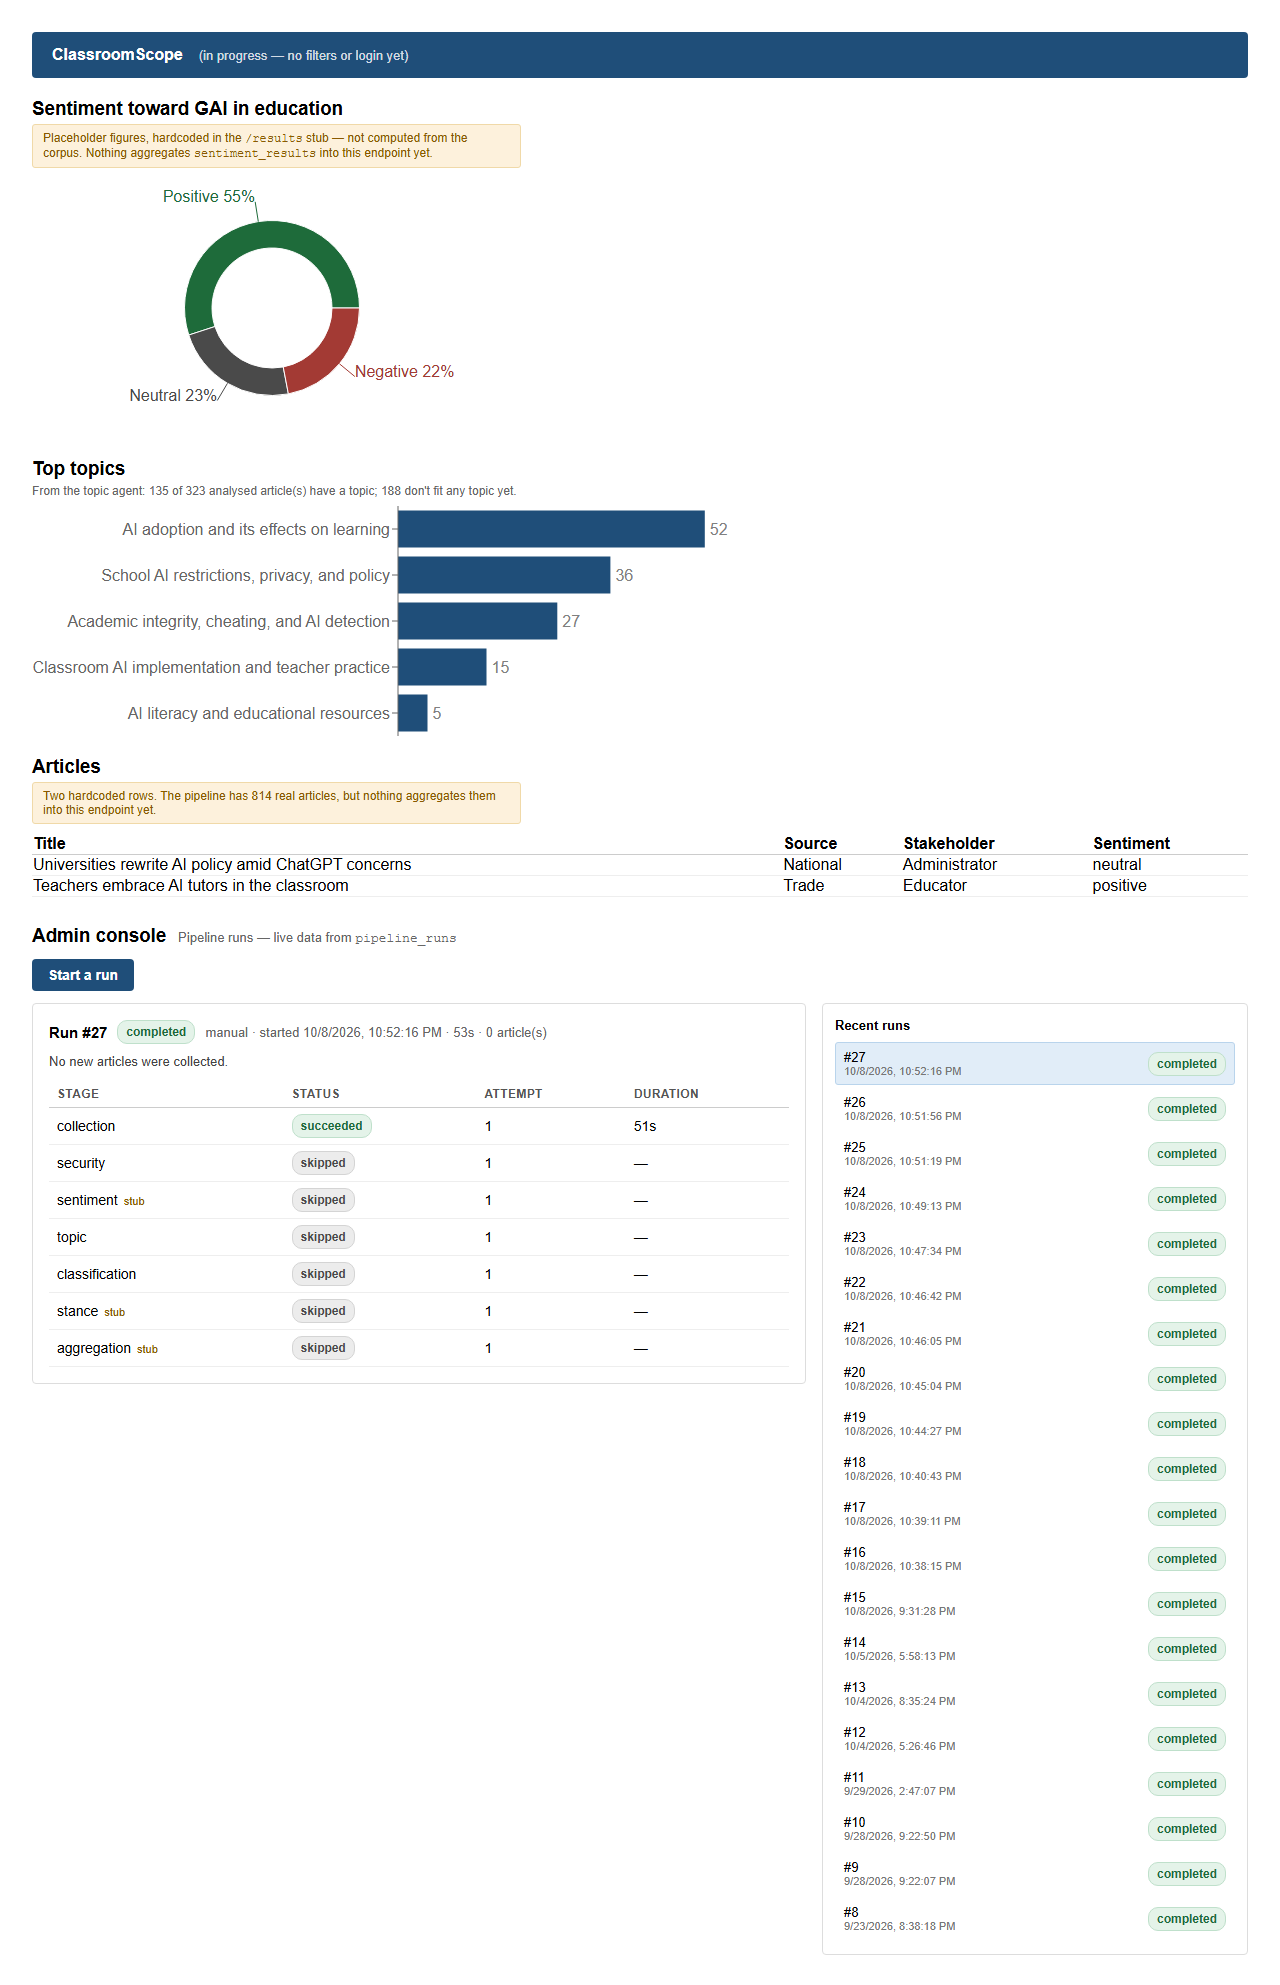
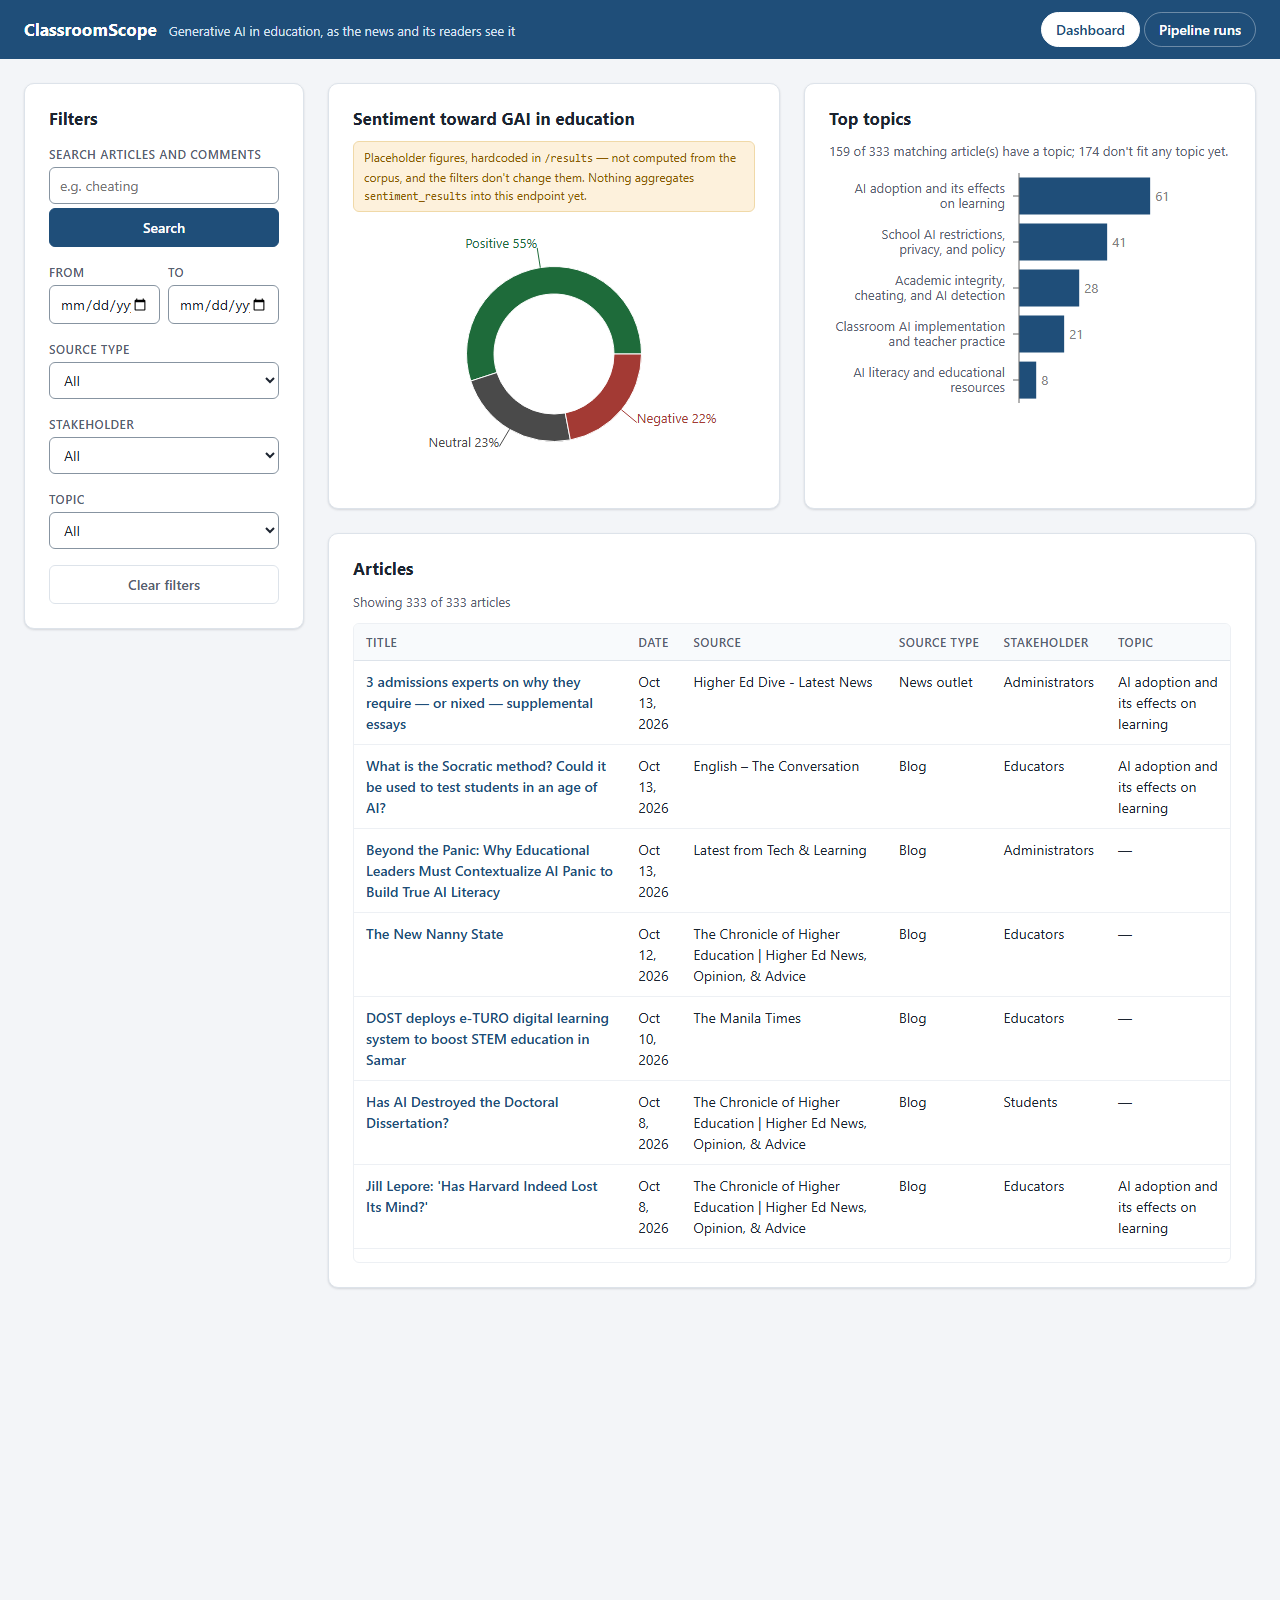
Update the end-to-end checks for the redesigned dashboard
D1 failed against the redesign: the topic line, axis labels and the Pipeline runs tab changed. D1-D3 and R1 are rewritten and pass against the real backend. R1 and D1 now count topics per article, as the corpus does, since counting rows disagreed with the API by the articles with no topic row. D2 and D3 fail at once on a run that does not complete, and D3 waits for the console to load before clicking. The report has a section on the rerun and new screenshots.

diff --git a/backend/e2e/test_3_dashboard.py b/backend/e2e/test_3_dashboard.py
@@ -8,21 +8,36 @@ from e2e.browser import CLIPPED_LABELS, screenshot, watch_console
 from e2e.settings import PAGE_TIMEOUT, RUN_TIMEOUT
 
 
+def squash(text: str) -> str:
+    """Axis labels wrap onto two lines with no space between them in the text; compare without spaces."""
+    return re.sub(r"\s+", "", text)
+
+
+def open_pipeline_runs(page):
+    page.get_by_role("navigation", name="Views").get_by_role("button", name="Pipeline runs").click()
+
+
 def test_d1_dashboard_shows_real_topics_and_marks_placeholders(
         page, frontend, environment, results_dir, record_property):
     problems = watch_console(page)
     page.goto(frontend.url, timeout=PAGE_TIMEOUT)
-    expect(page.get_by_text("From the topic agent:")).to_be_visible(timeout=PAGE_TIMEOUT)
     expected = database.topic_facet(environment.client)
+    counted, unassigned = expected["counted"], expected["unassigned"]
+    total = counted + unassigned
+    expect(page.get_by_text(f"{counted} of {total} matching article(s) have a topic; "
+                            f"{unassigned} don't fit any topic yet.")).to_be_visible(timeout=PAGE_TIMEOUT)
 
     expect(page.locator("svg.recharts-surface")).to_have_count(2)
-    assert (page.locator(".recharts-yAxis-tick-labels text").all_text_contents()
-            == [item["label"] for item in expected["items"]])
+    labels = page.locator(".recharts-yAxis-tick-labels text")
+    expect(labels).to_have_count(len(expected["items"]))
+    assert ([squash(text) for text in labels.all_text_contents()]
+            == [squash(item["label"]) for item in expected["items"]])
     assert (page.locator(".recharts-label-list text").all_text_contents()
             == [str(item["count"]) for item in expected["items"]])
     assert page.evaluate(CLIPPED_LABELS) == []
     expect(page.get_by_text("Placeholder figures, hardcoded")).to_be_visible()
-    expect(page.get_by_text("Two hardcoded rows.")).to_be_visible()
+    expect(page.get_by_text(f"Showing {total} of {total} articles")).to_be_visible()
+    expect(page.locator("table.data-table tbody tr")).to_have_count(total)
     screenshot(page, results_dir, "D1-dashboard.png", record_property)
     assert problems == []
 
@@ -30,26 +45,33 @@ def test_d1_dashboard_shows_real_topics_and_marks_placeholders(
 def test_d2_admin_console_lists_the_api_run(page, frontend, api_run):
     run_id = api_run.first.json()["id"]
     page.goto(frontend.url, timeout=PAGE_TIMEOUT)
+    open_pipeline_runs(page)
     entry = page.get_by_role("button", name=re.compile(rf"^#{run_id}\b"))
-    expect(entry).to_contain_text("completed", timeout=PAGE_TIMEOUT)
+    expect(entry.locator(".badge")).to_have_text("completed", timeout=PAGE_TIMEOUT)
 
 
 def test_d3_start_a_run_from_the_dashboard(page, frontend, api_run, results_dir, record_property):
     problems = watch_console(page)
     page.goto(frontend.url, timeout=PAGE_TIMEOUT)
+    open_pipeline_runs(page)
+    title = page.locator(".run-title")
+    # The console selects the newest run as it loads; clicking before that
+    # lets the late selection replace the run this test starts.
+    expect(title).to_be_visible(timeout=PAGE_TIMEOUT)
     button = page.get_by_role("button", name=re.compile("^(Start a run|Starting…|Run in progress…)$"))
     expect(button).to_have_text("Start a run", timeout=PAGE_TIMEOUT)
 
     button.click()
     expect(button).to_be_disabled(timeout=PAGE_TIMEOUT)
-    title = page.locator("strong", has_text=re.compile(r"^Run #\d+$"))
     expect(title).not_to_have_text(f"Run #{api_run.first.json()['id']}", timeout=PAGE_TIMEOUT)
     status = title.locator("xpath=following-sibling::span[1]")
     expect(status).to_have_text("running", timeout=PAGE_TIMEOUT)
     screenshot(page, results_dir, "D3-running.png", record_property)
 
-    expect(status).to_have_text("completed", timeout=RUN_TIMEOUT * 1000)
-    statuses = page.locator("table").filter(has_text="Attempt").locator("tbody tr td:nth-child(2)")
+    # Any final state ends the wait; only "completed" passes.
+    expect(status).to_have_text(re.compile("^(completed|completed with errors|failed)$"), timeout=RUN_TIMEOUT * 1000)
+    expect(status).to_have_text("completed")
+    statuses = page.locator("table.data-table tbody tr td:nth-child(2)")
     expect(statuses).to_have_text(["succeeded"] * 7)
     expect(button).to_have_text("Start a run")
     expect(button).to_be_enabled()

diff --git a/backend/e2e/database.py b/backend/e2e/database.py
@@ -7,6 +7,7 @@ that can return more than PostgREST's 1,000-row page reads in pages.
 from __future__ import annotations
 
 import json
+from collections import Counter
 from typing import Any, Callable, Dict, List, Set, Tuple
 
 from e2e.settings import TOPIC_CATALOG
@@ -82,16 +83,20 @@ def articles_with_rows(client: Any, table: str, ids: Set[int]) -> Set[int]:
 
 
 def topic_facet(client: Any) -> Dict[str, Any]:
-    """The /results topic facet as Supabase's own exact counts give it."""
+    """
+    The /results topic facet, worked out from the raw tables.
+
+    Follows the corpus's documented rule (orchestrator/corpus.py): one topic
+    per analysable article, the newest topic_results row; no row, or no
+    stable topic ID, means unassigned.
+    """
     topics = json.loads(TOPIC_CATALOG.read_text())["topics"]
-
-    def exact(query: Any) -> int:
-        return query.limit(1).execute().count or 0
-
-    counts = {topic_id: exact(client.table("topic_results").select("id", count="exact")
-                              .eq("stable_topic_id", topic_id))
-              for topic_id in topics}
-    items = sorted(({"label": topics[t]["label"], "count": n} for t, n in counts.items() if n),
+    corpus = {row["id"] for row in page_all(lambda: client.table("articles").select("id")
+                                            .eq("llm_relevant", True).eq("processing_status", "success").order("id"))}
+    newest = {row["article_id"]: row["stable_topic_id"] for row in page_all(
+        lambda: client.table("topic_results").select("article_id, stable_topic_id").order("id"))}
+    counts = Counter(newest[a] for a in corpus if newest.get(a))
+    items = sorted(({"label": topics[topic_id]["label"], "count": n} for topic_id, n in counts.items()),
                    key=lambda item: (-item["count"], item["label"]))
-    unassigned = exact(client.table("topic_results").select("id", count="exact").is_("stable_topic_id", "null"))
-    return {"counted": sum(counts.values()), "unassigned": unassigned, "items": items}
+    counted = sum(counts.values())
+    return {"counted": counted, "unassigned": len(corpus) - counted, "items": items}

diff --git a/docs/testing/e2e-test-report.md b/docs/testing/e2e-test-report.md
@@ -69,9 +69,9 @@ offline tests, which never touch the network.
 | P3 | A second start while one is running | Refused with 409, naming the active run | Pass | |
 | P4 | The run list | The new run first; nothing active once it has finished | Pass | |
 | P5 | The database itself, read directly | The run and its 7 stage rows final; classification rows written during the run for exactly 5 analysable articles; a topic row for each | Pass | articles 36, 45, 47, 49, 51 |
-| R1 | `/api/v1/results` topic counts | Equal to Supabase's exact count per topic ID, and the unassigned count | Pass | 135 articles with a topic, 188 unassigned |
-| D1 | The dashboard in Chromium | No console errors; both charts drawn; topic bars match R1 in order; no label cut off; the placeholder notes still shown | Pass | screenshot below |
-| D2 | The admin console | P's run listed as completed | Pass | |
+| R1 | `/api/v1/results` topic counts | Equal to the counts worked out from the raw tables: one topic per analysable article, the newest row, none means unassigned | Pass | 135 articles with a topic, 188 unassigned (first run) |
+| D1 | The dashboard in Chromium | No console errors; both charts drawn; the topic line, bars and article table match the database; no label cut off; the sentiment placeholder note shown | Pass | screenshot below |
+| D2 | The Pipeline runs tab | P's run listed, its badge reading exactly `completed` | Pass | |
 | D3 | "Start a run" on the dashboard | The button disables; stages move from running to succeeded; the run ends `completed` | Pass | run #29 |
 | C1 | A real RSS + GNews collection run | Completes, whether or not there was new on-topic news | Pass | run #30 found nothing new |
 | C2 | Every article C1 reports | Stored as relevant, fully downloaded, and classified | Pass | nothing to check this time |
@@ -103,7 +103,7 @@ did the same with 9 articles.
 how many were relevant, for example "9 new articles, none relevant"
 (item 4 in `NEXT_STEPS.md`).
 
-### 2. The dashboard's article note gives a stale count (low)
+### 2. The dashboard's article note gives a stale count (low; gone since the redesign)
 
 **What happens:** the Articles section reads "The pipeline has 814 real
 articles". The database holds 2,282, of which 328 are analysable.
@@ -111,7 +111,8 @@ articles". The database holds 2,282, of which 328 are analysable.
 **Evidence:** the D1 screenshot below.
 
 **Suggested fix:** the dashboard MVP replaces this placeholder table with
-real articles. Until then, the sentence should drop the number.
+real articles. It has: the redesign shows the real article list (see the
+rerun below).
 
 ### 3. In the test suite, now fixed: P5 read the database too late
 
@@ -137,6 +138,30 @@ fix.
   inside supabase-py 2.31, and ResourceWarnings for Supabase connections
   the app never closes. They're harmless today and would go away with a
   supabase-py upgrade and closing clients on shutdown.
+
+## Rerun after the dashboard redesign (2026-10-13)
+
+The dashboard MVP (filters, keyword search, redesign) merged after this
+report's first run, and D1 failed against it: the topic line, the axis
+labels and the Pipeline runs console had all changed. D1–D3 and R1 were
+rewritten for it, then run again: **R1, D1, D2 and D3 pass** (branch
+`fix-e2e-dashboard-selectors`, runs #49 and #50, both `completed`, 7
+stages succeeded).
+
+Two things changed in what the checks assert:
+
+- **R1 and D1 now count per article, not per row.** The corpus gives each
+  analysable article one topic (its newest row) and counts articles
+  with none as unassigned. Counting rows disagreed with the API by 5, the
+  articles with no topic row yet. The API was right; the expectation was
+  rewritten from the raw tables.
+- **D1 also checks the article table:** "Showing N of N articles" and one
+  row per article, matching the database. That run showed 159 of 333
+  articles with a topic and 174 without.
+
+D2 and D3 now also fail at once on a run that ends `completed with
+errors` or `failed`, instead of waiting five minutes, and D3 waits for the
+console to load before clicking.
 
 ## Database footprint
 
@@ -170,11 +195,10 @@ day it may store some.
    checks run before any run has written a topic row.
 2. **Make the run note tell "nothing fetched" apart from "fetched, none
    relevant"** (problem 1).
-3. **Rerun this suite when the dashboard MVP merges,** and update D1–D3 in
-   the same PR. They find elements by their visible text, which the
-   redesign changes. `data-testid` attributes on those elements would
-   make them survive later redesigns (see the README's "MVP features"
-   table).
+3. **Done for the October redesign** (see the rerun below). D1–D3 find
+   elements by their visible text, so the next redesign breaks them
+   again; `data-testid` attributes on those elements would make them
+   survive (see the README's "MVP features" table).
 4. **Run `python -m pytest e2e` before merging any PR that touches the
    pipeline or the dashboard.** It takes about 2 minutes.
 5. **Topic owner:** look at the 58% unassigned rate, perhaps starting from

diff --git a/README.md b/README.md
@@ -160,7 +160,7 @@ MVPs: they work end to end, but each takes shortcuts on purpose. Design:
 | Pipeline runs | All 20 recent runs listed; Start a run has no confirm step | Long list on phones; one click runs the real pipeline | Cap the list; confirm step, admin-only (TODO(auth)) |
 | Frontend | No frontend tests | Regressions caught by eye | Vitest + Testing Library |
 | End-to-end checks (`backend/e2e`) | Run against the team's shared Supabase project: 5 stored articles per run, real collection only with `--collect` | Every run writes to team data: run history, re-written classifications, sometimes new articles | A separate test database, selected with `E2E_ENV_FILE=.env.test` |
-| End-to-end checks (`backend/e2e`) | Dashboard checks find elements by their visible text and layout | A redesign that changes that text breaks D1–D3, and the October redesign did: D1 fails today, D2 and D3 are untested against it | `data-testid` attributes on the elements the tests use |
+| End-to-end checks (`backend/e2e`) | Dashboard checks find elements by their visible text and layout | A redesign that changes that text breaks D1–D3. The October redesign did, and they were rewritten for it | `data-testid` attributes on the elements the tests use |
 
 ## Next steps (planned)
 
